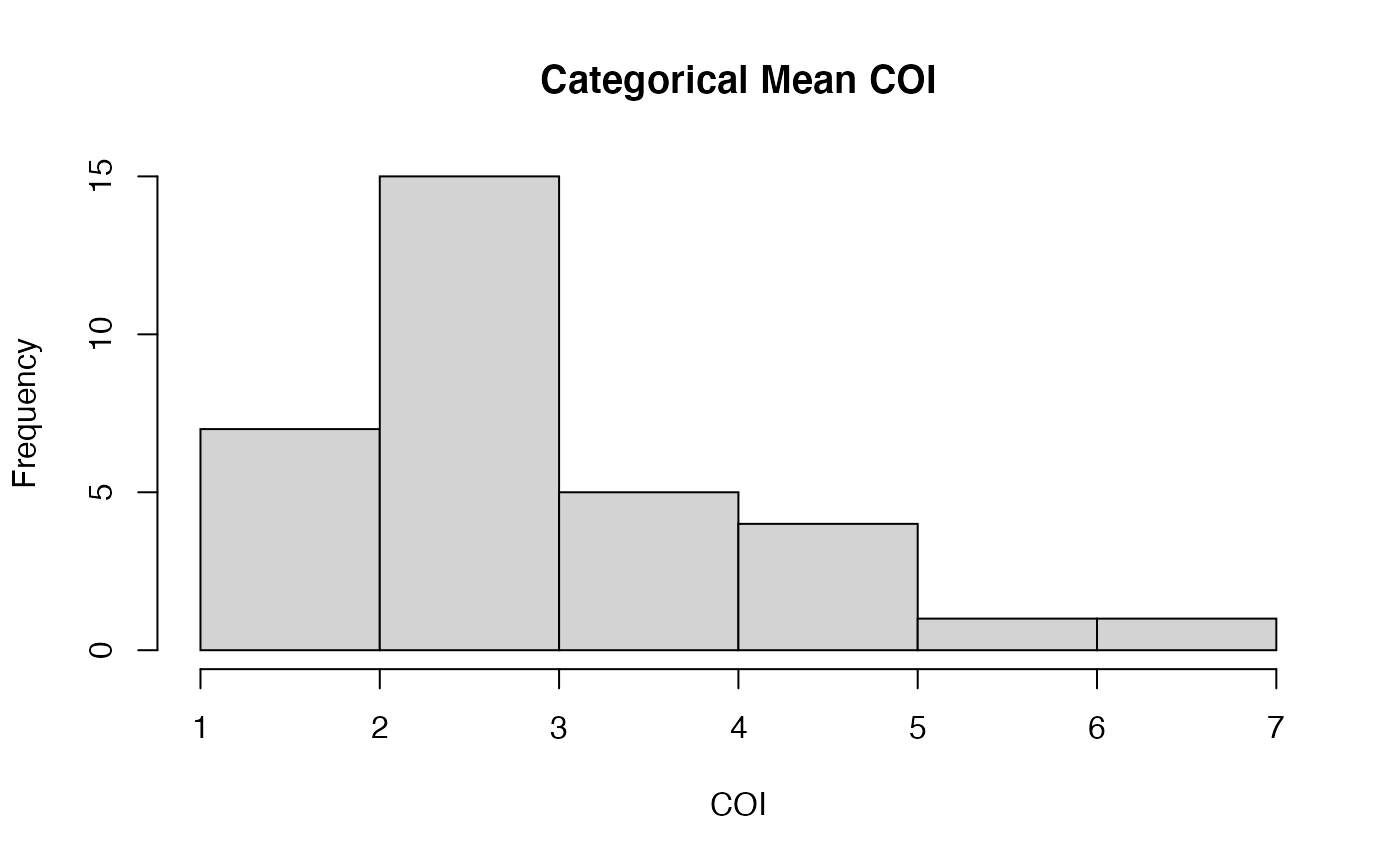
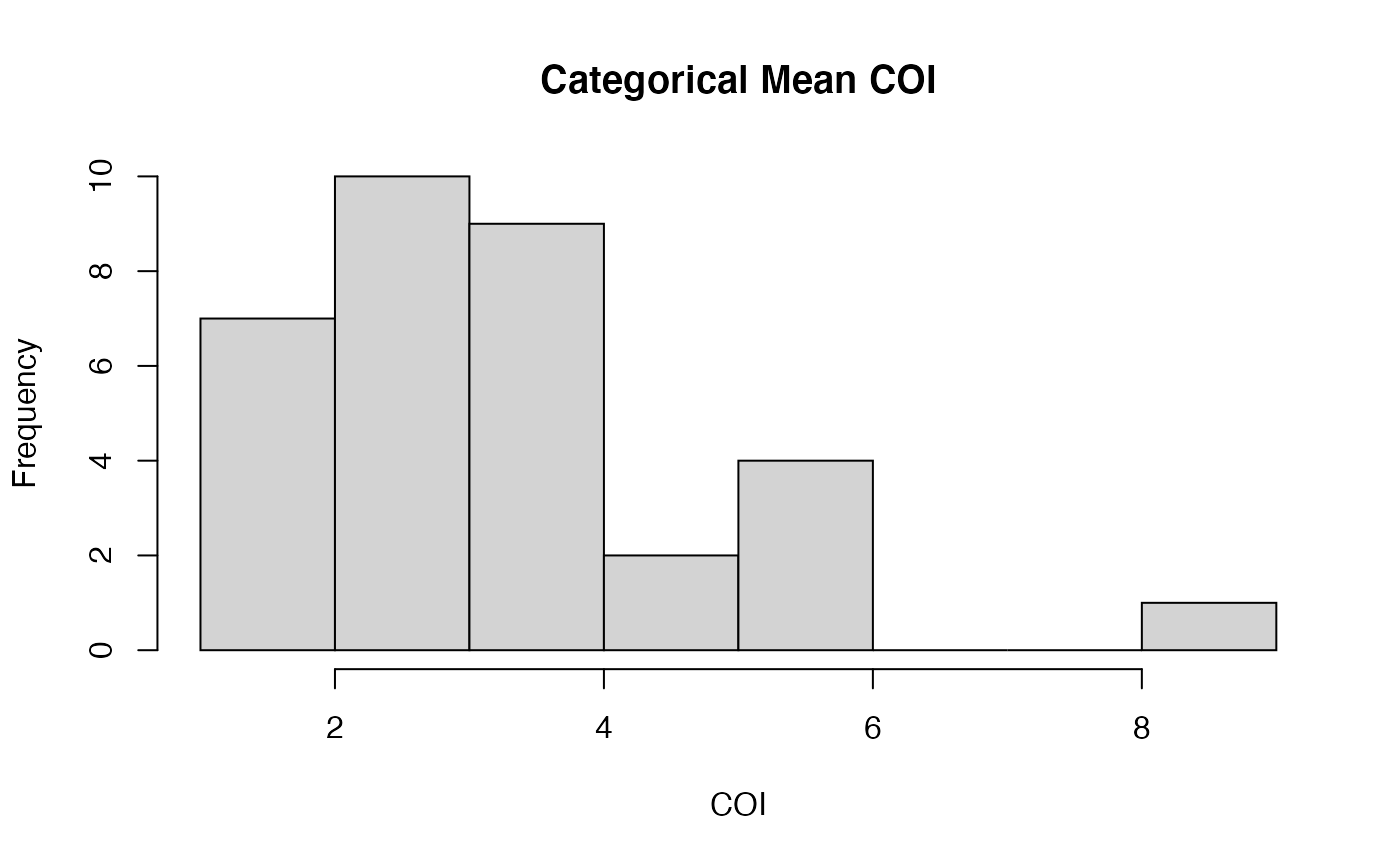
Built site for McCOILR: 1.3.0@1b3d34b

diff --git a/articles/introduction.html b/articles/introduction.html
@@ -329,7 +329,7 @@ output<span class="op">=</span><span class="st">"output_test.txt"</span> <span c
 ## Iter 4000 out of 5000
 ## Iter 4500 out of 5000
 ## Iter 5000 out of 5000
-## Time = 25.00 s</code></pre>
+## Time = 21.00 s</code></pre>
 <p>The R functions now return the summary outputs, just for ease of looking at the results:</p>
 <div class="sourceCode" id="cb10"><pre class="downlit sourceCode r">
 <code class="sourceCode R"><span class="co">## view summary data.frame for categorical</span>
@@ -338,11 +338,11 @@ output<span class="op">=</span><span class="st">"output_test.txt"</span> <span c
 ##  $ file         : chr  "output_test.txt" "output_test.txt" "output_test.txt" "output_test.txt" ...
 ##  $ CorP         : chr  "C" "C" "C" "C" ...
 ##  $ name         : chr  "ind1" "ind2" "ind3" "ind4" ...
-##  $ mean         : num  3 2 3 1 4 3 4 3 2 5 ...
-##  $ median       : num  2 2 2 1 3 2 3 3 2 5 ...
-##  $ sd           : num  3.38 1.47 2.34 1.87 1.95 ...
+##  $ mean         : num  2 3 3 1 4 3 4 3 2 6 ...
+##  $ median       : num  2 2 2 1 3 3 3 3 2 5 ...
+##  $ sd           : num  1.53 2.68 2.17 2.07 2.92 ...
 ##  $ quantile0.025: num  2 2 2 1 2 2 2 2 1 3 ...
-##  $ quantile0.975: num  16 6 13 7.02 10.02 ...</code></pre>
+##  $ quantile0.975: num  5 12 10 11 15 ...</code></pre>
 <div class="sourceCode" id="cb12"><pre class="downlit sourceCode r">
 <code class="sourceCode R"><span class="co">## Have a look at the categorical output COI distribution</span>
 <span class="fu"><a href="https://rdrr.io/r/graphics/hist.html" class="external-link">hist</a></span><span class="op">(</span><span class="fu"><a href="https://rdrr.io/r/base/numeric.html" class="external-link">as.numeric</a></span><span class="op">(</span><span class="fu"><a href="https://rdrr.io/r/base/character.html" class="external-link">as.character</a></span><span class="op">(</span><span class="va">out_cat</span><span class="op">$</span><span class="va">mean</span><span class="op">[</span><span class="va">out_cat</span><span class="op">$</span><span class="va">CorP</span><span class="op">==</span><span class="st">"C"</span><span class="op">]</span><span class="op">)</span><span class="op">)</span>,
@@ -355,11 +355,11 @@ main <span class="op">=</span> <span class="st">"Categorical Mean COI"</span>, x
 ##  $ file         : chr  "output_test.txt" "output_test.txt" "output_test.txt" "output_test.txt" ...
 ##  $ CorP         : chr  "C" "C" "C" "C" ...
 ##  $ name         : chr  "ind1" "ind2" "ind3" "ind4" ...
-##  $ mean         : num  2 2 2 6 2 4 8 2 2 2 ...
-##  $ median       : num  2 2 2 6 2 4 8 2 2 2 ...
-##  $ sd           : num  0.3124 0.2326 0.0158 1.2479 0.489 ...
+##  $ mean         : num  2 2 2 6 2 4 7 2 2 2 ...
+##  $ median       : num  2 2 2 6 2 4 7 2 2 2 ...
+##  $ sd           : num  0.3171 0.1417 0.0353 1.2569 0.4502 ...
 ##  $ quantile0.025: num  2 2 2 4 2 3 5 2 2 2 ...
-##  $ quantile0.975: num  3 3 2 9 3 6 12 3 2 3 ...</code></pre>
+##  $ quantile0.975: num  3 2 2 9 3 5 11 3 2 3 ...</code></pre>
 <div class="sourceCode" id="cb15"><pre class="downlit sourceCode r">
 <code class="sourceCode R"><span class="co">## Have a look at the proportional output COI distribution</span>
 <span class="fu"><a href="https://rdrr.io/r/graphics/hist.html" class="external-link">hist</a></span><span class="op">(</span><span class="fu"><a href="https://rdrr.io/r/base/numeric.html" class="external-link">as.numeric</a></span><span class="op">(</span><span class="fu"><a href="https://rdrr.io/r/base/character.html" class="external-link">as.character</a></span><span class="op">(</span><span class="va">out_prop</span><span class="op">$</span><span class="va">mean</span><span class="op">[</span><span class="va">out_cat</span><span class="op">$</span><span class="va">CorP</span><span class="op">==</span><span class="st">"C"</span><span class="op">]</span><span class="op">)</span><span class="op">)</span>,
